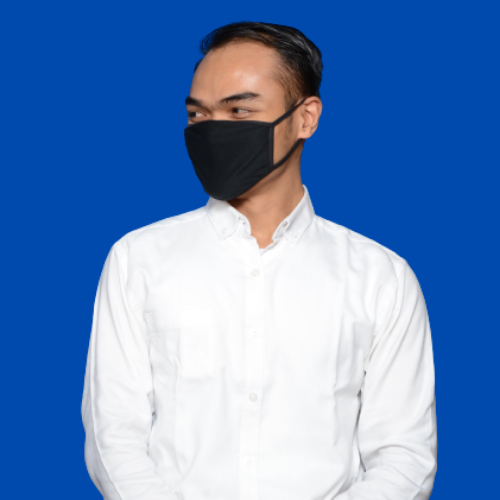
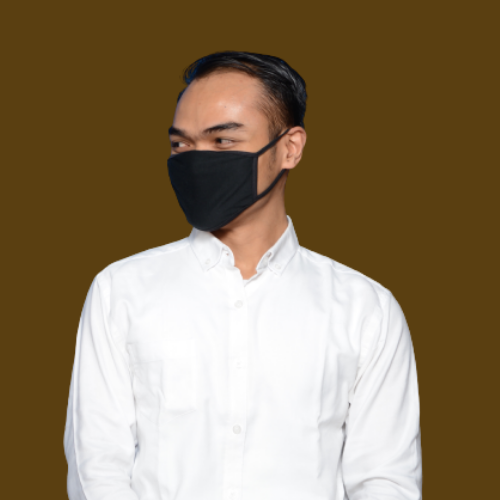
change background color to brown

diff --git a/css/skins/pink.css b/css/skins/pink.css
@@ -12,7 +12,7 @@ body.dark .header .nav ul li a.active,
 .header .nav ul li a.active,
 body.dark .header .nav ul li a:hover,
 .header .nav ul li a:hover {
-  color: #d2691e;
+  color: #5a3f11;
 }
 
 .btn-1,
@@ -20,11 +20,11 @@ body.dark .header .nav ul li a:hover,
 .event-section .event-item-inner:before,
 .couple-section .social-links a i,
 .couple-section .couple img {
-  border-color: #d2691e;
+  border-color: #5a3f11;
 }
 
 .preloader .loader:before {
-  border-right-color: #d2691e;
+  border-right-color: #5a3f11;
 }
 
 .setting .s-toggle-btn,
@@ -35,5 +35,5 @@ body.dark .people-section .filter-btn.active,
 .people-section .filter-btn.active,
 .event-section,
 .couple-section .social-links a:hover i {
-  background-color: #d2691e;
+  background-color: #5a3f11;
 }

diff --git a/index.html b/index.html
@@ -87,7 +87,7 @@
       <div class="container">
         <div class="row">
           <div class="section-title">
-            <h3 class="bismillah">﷽</h3>
+            <h3 class="bismillah">بِسْمِ اللهِ الرَّحْمنِ الرَّحِيمِ</h3>
           </div>
         </div>
         <div class="row">

diff --git a/css/style.css b/css/style.css
@@ -633,11 +633,12 @@ footer {
 /* rsvp section */
 .rsvp-section {
   padding: 80px 0 80px;
+  background-color: #e5d3b3 !important;
 }
 
 .rsvp-section .section-title h2,
 .rsvp-section .section-title p {
-  color: #ffffff;
+  color: #000000 !important;
 }
 .rsvp-section .section-title p {
   margin: 10px 0 0;

diff --git a/css/responsive.css b/css/responsive.css
@@ -98,6 +98,9 @@
   .story-section .story-item:nth-child(odd) .story-img {
     padding: 0 15px 0 50px;
   }
+  .opening-section h3 {
+    font-size: 25px !important;
+  }
 }
 
 @media (max-width: 574px) {

diff --git a/js/setting.js b/js/setting.js
@@ -1,7 +1,7 @@
 const color = [
   {
-    name: 'light frey',
-    code: '#D2691E',
+    name: 'brown',
+    code: '#5a3f11',
     url: 'css/skins/pink.css',
   },
   {
